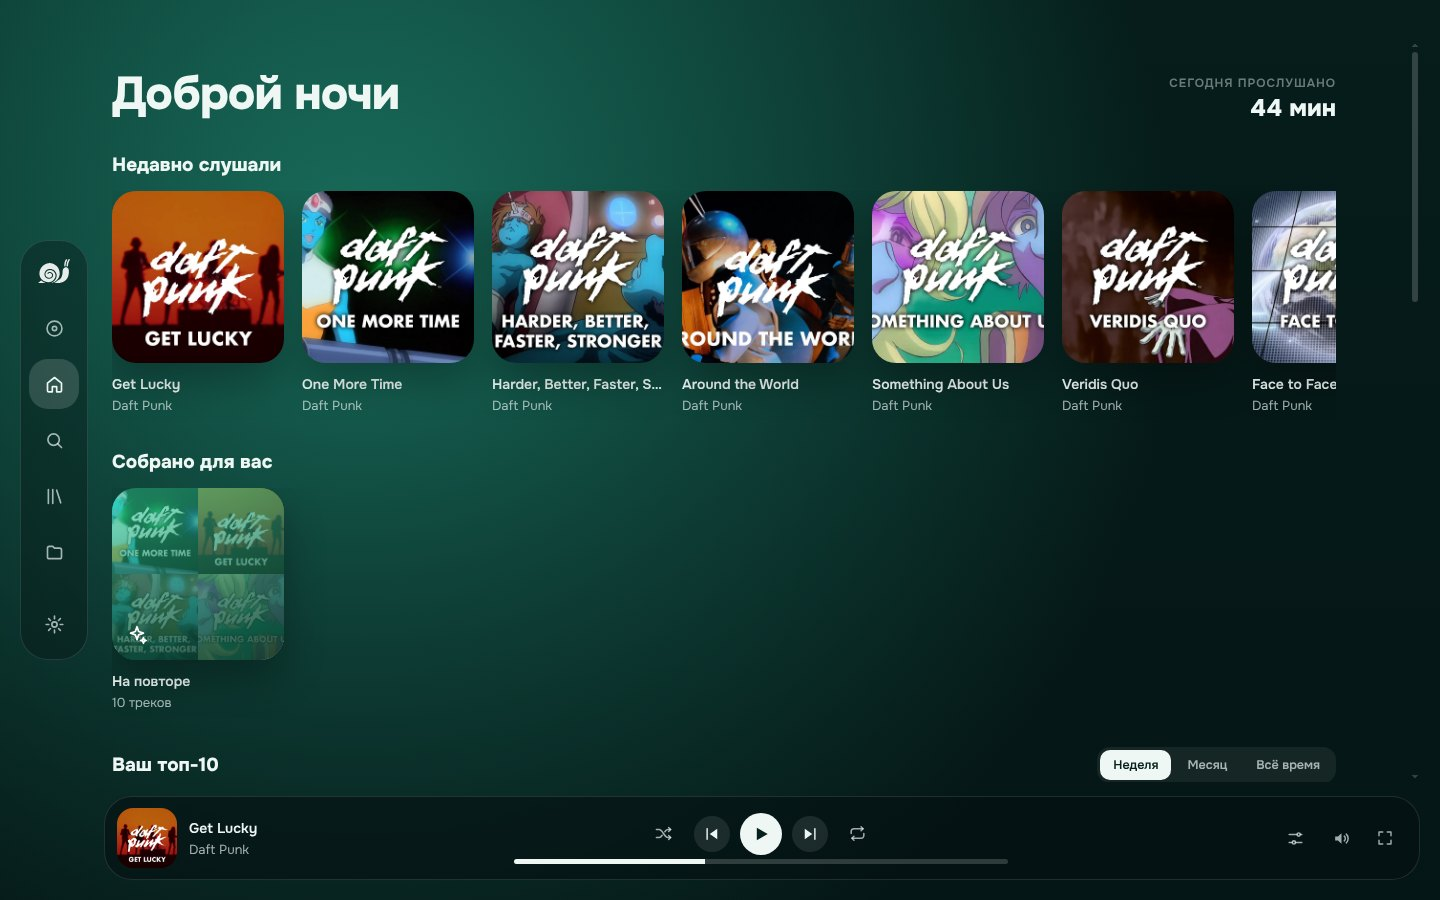
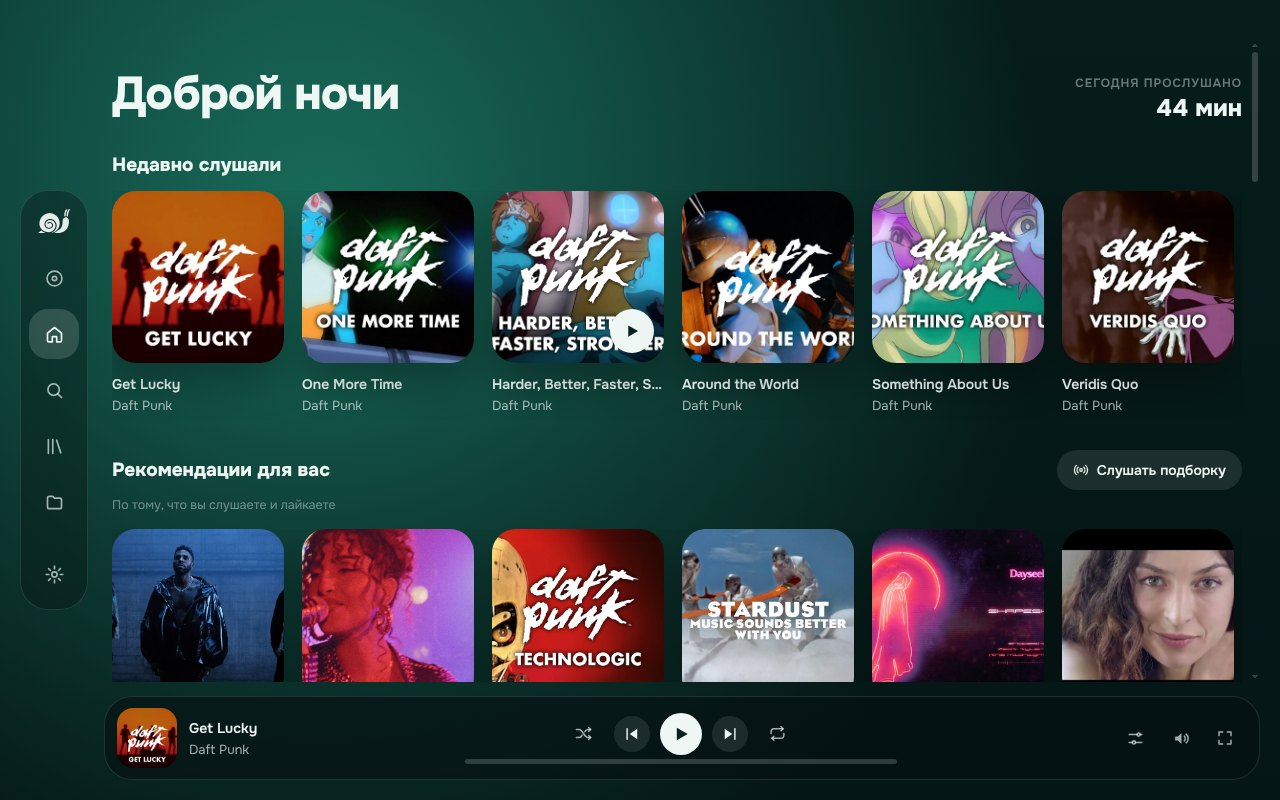
Recommendations and endless autoplay
- Similar songs come from YouTube Music's radio for the song (plus SoundCloud
  related for SoundCloud songs), same song from two uploads counted once
- "Next" on the last song continues with similar songs instead of starting the
  queue over; the queue is topped up while the last song plays
- Home: "Recommendations for you" mixed from your most played and liked songs,
  "Similar to …" rows

diff --git a/src/player/radio.ts b/src/player/radio.ts
@@ -1,19 +1,68 @@
 import type { Track } from "@/types";
 import { searchSoundCloud, soundCloudRelated } from "@/services/soundcloud/api";
-import { searchQueryFor, simplify } from "./match";
+import { searchYouTubeMusic, youTubeRadio } from "@/services/youtube/music";
+import { searchQueryFor, simplify, splitTitle } from "./match";
 
-// When the queue runs out (and autoplay is on), keep going with similar songs.
+// Similar songs: YouTube Music's own radio ("up next") for the song, plus SoundCloud's
+// related tracks for SoundCloud songs. Used for autoplay, "track radio" and the
+// recommendations on the home page.
 
-export async function similarTracks(seed: Track, exclude: Set<string>, signal?: AbortSignal): Promise<Track[]> {
-  let found: Track[] = [];
-  if (seed.source === "soundcloud") {
-    found = await soundCloudRelated(seed.id, signal);
-  } else {
-    // find the song on SoundCloud, then ask for what is related to it
-    const { tracks } = await searchSoundCloud(searchQueryFor(seed), signal);
-    const first = tracks[0];
-    found = first ? await soundCloudRelated(first.id, signal).catch(() => tracks) : [];
-    if (!found.length && seed.artists[0]) found = (await searchSoundCloud(simplify(seed.artists[0].name), signal)).tracks;
+function mix(a: Track[], b: Track[]): Track[] {
+  const out: Track[] = [];
+  for (let i = 0; i < Math.max(a.length, b.length); i++) {
+    if (a[i]) out.push(a[i]);
+    if (b[i]) out.push(b[i]);
   }
-  return found.filter((t) => !exclude.has(t.id)).slice(0, 20);
+  return out;
+}
+
+/** the same song uploaded twice counts once */
+export function songKey(t: Track): string {
+  const { title, artist } = splitTitle(t);
+  return `${simplify(artist)}|${simplify(title)}`;
+}
+
+export function uniqueSongs(list: Track[], exclude: Set<string> = new Set()): Track[] {
+  const seenKeys = new Set<string>();
+  return list.filter((t) => {
+    if (exclude.has(t.id)) return false;
+    const key = songKey(t);
+    if (seenKeys.has(key) || exclude.has(key)) return false;
+    seenKeys.add(key);
+    return true;
+  });
+}
+
+async function youTubeSeed(seed: Track, signal?: AbortSignal): Promise<string | null> {
+  if (seed.source === "youtube") return seed.id;
+  const found = await searchYouTubeMusic(searchQueryFor(seed), signal).catch(() => [] as Track[]);
+  return found[0]?.id ?? null;
+}
+
+const cache = new Map<string, { at: number; tracks: Track[] }>();
+const TTL = 30 * 60_000;
+
+export async function similarTracks(seed: Track, exclude: Set<string> = new Set(), signal?: AbortSignal, limit = 25): Promise<Track[]> {
+  let all = cache.get(seed.id)?.at && Date.now() - cache.get(seed.id)!.at < TTL ? cache.get(seed.id)!.tracks : null;
+  if (!all) {
+    const [yt, sc] = await Promise.all([
+      youTubeSeed(seed, signal).then((id) => (id ? youTubeRadio(id, signal) : [])).catch(() => [] as Track[]),
+      seed.source === "soundcloud"
+        ? soundCloudRelated(seed.id, signal).catch(() => [] as Track[])
+        : Promise.resolve([] as Track[]),
+    ]);
+    all = mix(yt, sc);
+    if (!all.length && seed.artists[0]) {
+      // last resort: more by the same artist
+      const name = simplify(seed.artists[0].name);
+      const [y, s] = await Promise.all([
+        searchYouTubeMusic(name, signal).catch(() => [] as Track[]),
+        searchSoundCloud(name, signal).then((r) => r.tracks).catch(() => [] as Track[]),
+      ]);
+      all = mix(y, s);
+    }
+    if (all.length) cache.set(seed.id, { at: Date.now(), tracks: all });
+  }
+  const skip = new Set([...exclude, seed.id, songKey(seed)]);
+  return uniqueSongs(all, skip).slice(0, limit);
 }

diff --git a/src/player/engine.ts b/src/player/engine.ts
@@ -6,7 +6,7 @@ import { createAudioGraph, type AudioGraph } from "@/audio/graph";
 import { setLevelingTrack } from "@/equalizer/eqAudio";
 import { effectsForNextTrack, useEffects, type EffectsState } from "./effects";
 import { YouTubeEmbed } from "./youtubeEmbed";
-import { similarTracks } from "./radio";
+import { similarTracks, songKey } from "./radio";
 import { useSettings } from "@/settings/store";
 import { HISTORY_AFTER_MS, useHistory } from "@/stats/history";
 import { recordListen } from "@/stats/listeningStats";
@@ -34,6 +34,7 @@ class PlayerEngine {
   private lastPos = -1;
   private counted = false;
   private radioBusy = false;
+  private playWhenExtended = false;
   /** a restored session starts at this position */
   private resumeAt = 0;
 
@@ -290,7 +291,8 @@ class PlayerEngine {
     const state = usePlayer.getState();
     const i = nextIndex(state, manual);
     if (i < 0) {
-      if (useSettings.getState().autoplay) void this.extendWithSimilar();
+      if (useSettings.getState().autoplay) void this.extendWithSimilar(true);
+      else if (manual && state.queue.length > 1) void this.playIndex(0);
       else usePlayer.setState({ status: "paused" });
       return;
     }
@@ -302,24 +304,37 @@ class PlayerEngine {
     void this.playIndex(i);
   }
 
-  private async extendWithSimilar(): Promise<void> {
+  /**
+   * Add similar songs after the queue. With `play`, jump to the first of them (the queue
+   * ran out); without, it is a quiet top-up while the last song is still playing, so
+   * "next" never has to wait.
+   */
+  private async extendWithSimilar(play: boolean): Promise<void> {
     const state = usePlayer.getState();
     const seed = currentTrack(state);
-    if (!seed || this.radioBusy) return;
+    if (!seed) return;
+    if (this.radioBusy) {
+      if (play) this.playWhenExtended = true;
+      return;
+    }
     this.radioBusy = true;
+    if (play) this.playWhenExtended = true;
     try {
-      const more = await similarTracks(seed, new Set(state.queue.map((t) => t.id)));
+      // songs heard recently are not offered again straight away
+      const recent = state.queue.slice(Math.max(0, state.index - 100));
+      const more = await similarTracks(seed, new Set([...recent.map((t) => t.id), ...recent.map(songKey)]));
+      const now = usePlayer.getState();
       if (!more.length) {
-        usePlayer.setState({ status: "paused" });
+        if (this.playWhenExtended) usePlayer.setState({ status: "paused", error: "Не нашлось похожих треков" });
         return;
       }
-      const queue = [...usePlayer.getState().queue, ...more];
-      usePlayer.setState({ queue });
-      await this.playIndex(state.index + 1);
+      usePlayer.setState({ queue: [...now.queue, ...more] });
+      if (this.playWhenExtended && now.index === state.index) await this.playIndex(state.index + 1);
     } catch {
-      usePlayer.setState({ status: "paused" });
+      if (this.playWhenExtended) usePlayer.setState({ status: "paused" });
     } finally {
       this.radioBusy = false;
+      this.playWhenExtended = false;
     }
   }
 
@@ -336,6 +351,8 @@ class PlayerEngine {
     if (!this.firstTrack) useEffects.setState(effectsForNextTrack(useEffects.getState()));
     setLevelingTrack(track.id);
     this.firstTrack = false;
+    const st = usePlayer.getState();
+    if (st.index >= st.queue.length - 2 && st.repeat === "off" && useSettings.getState().autoplay) void this.extendWithSimilar(false);
     try {
       const stream = await resolveStream(track, controller.signal);
       if (token !== this.loadToken) return;

diff --git a/src/pages/HomePage.tsx b/src/pages/HomePage.tsx
@@ -12,6 +12,9 @@ import { SMART_INFO } from "@/stats/smart";
 import { formatListenTime, playsWord } from "@/stats/format";
 import { useLibrary } from "@/library/store";
 import { newFromArtists } from "@/home/newFromArtists";
+import { recommendations, type Recommendations } from "@/home/recommendations";
+import { player } from "@/player/engine";
+import { IconRadio } from "@/ui/components/Icons";
 import { useNavigation } from "@/ui/navigation";
 
 function greeting(date = new Date()): string {
@@ -150,6 +153,55 @@ function Tops({ version }: { version: number }) {
   );
 }
 
+function ForYou() {
+  const likes = useLibrary((s) => s.likes);
+  const history = useHistory((s) => s.entries);
+  const [data, setData] = useState<Recommendations | null>(null);
+  const [state, setState] = useState<"loading" | "ready">("loading");
+  // recompute when the seeds could have changed, not on every play
+  const key = `${likes.length}|${history[0]?.track.id ?? ""}`;
+  useEffect(() => {
+    if (!likes.length && !history.length) {
+      setState("ready");
+      return;
+    }
+    const controller = new AbortController();
+    recommendations(likes, history, controller.signal)
+      .then((r) => {
+        if (controller.signal.aborted) return;
+        setData(r);
+        setState("ready");
+      })
+      .catch(() => setState("ready"));
+    return () => controller.abort();
+    // eslint-disable-next-line react-hooks/exhaustive-deps
+  }, [key]);
+  if (state === "ready" && !data?.forYou.length) return null;
+  return (
+    <>
+      <section className="row">
+        <div className="row-head">
+          <h2 className="row-title">Рекомендации для вас</h2>
+          {data?.forYou.length ? (
+            <button type="button" className="btn ghost" onClick={() => void player.playQueue(data.forYou)}>
+              <IconRadio size={16} /> Слушать подборку
+            </button>
+          ) : null}
+        </div>
+        <p className="muted small row-hint">По тому, что вы слушаете и лайкаете</p>
+        <div className="row-scroll">
+          {state === "loading"
+            ? Array.from({ length: 8 }, (_, i) => <span key={i} className="track-card skeleton" />)
+            : data!.forYou.map((t, i) => <TrackCard key={t.id} track={t} queue={data!.forYou} index={i} />)}
+        </div>
+      </section>
+      {data?.because.map((b) => (
+        <Row key={b.seed.id} title={`Похоже на «${b.seed.title}»`} tracks={b.tracks} state="ready" />
+      ))}
+    </>
+  );
+}
+
 function NewFromArtists() {
   const likes = useLibrary((s) => s.likes);
   const [tracks, setTracks] = useState<Track[]>([]);
@@ -183,6 +235,7 @@ export default function HomePage() {
         )}
       </header>
       <Recent />
+      <ForYou />
       <SmartRow version={version} />
       <Tops version={version} />
       <NewFromArtists />

diff --git a/src/home/recommendations.ts b/src/home/recommendations.ts
@@ -1,0 +1,54 @@
+import type { Track } from "@/types";
+import { similarTracks, songKey, uniqueSongs } from "@/player/radio";
+import { getTopTracks } from "@/stats/listeningStats";
+import type { LikedTrack } from "@/library/store";
+import type { HistoryEntry } from "@/stats/history";
+
+// Recommendations: radios of the songs you play most (and like most recently), mixed,
+// without what you already know.
+
+export interface Recommendations {
+  forYou: Track[];
+  because: Array<{ seed: Track; tracks: Track[] }>;
+}
+
+const TTL = 30 * 60_000;
+let cached: { key: string; at: number; value: Recommendations } | null = null;
+
+export function pickSeeds(likes: LikedTrack[], history: HistoryEntry[], limit = 4): Track[] {
+  const seeds: Track[] = [];
+  const add = (t: Track | undefined) => {
+    if (t && !seeds.some((s) => s.id === t.id || songKey(s) === songKey(t))) seeds.push(t);
+  };
+  for (const row of getTopTracks("month", 3)) add(row.track);
+  add(history[0]?.track);
+  for (const l of likes.slice(0, 3)) add(l.track);
+  return seeds.slice(0, limit);
+}
+
+export async function recommendations(likes: LikedTrack[], history: HistoryEntry[], signal?: AbortSignal): Promise<Recommendations> {
+  const seeds = pickSeeds(likes, history);
+  const key = seeds.map((s) => s.id).join(",");
+  if (cached && cached.key === key && Date.now() - cached.at < TTL) return cached.value;
+  const known = new Set<string>();
+  for (const l of likes) {
+    known.add(l.track.id);
+    known.add(songKey(l.track));
+  }
+  for (const h of history) {
+    known.add(h.track.id);
+    known.add(songKey(h.track));
+  }
+  const lists = await Promise.all(seeds.map((s) => similarTracks(s, known, signal, 30).catch(() => [] as Track[])));
+  const mixed: Track[] = [];
+  for (let i = 0; i < 30; i++) for (const list of lists) if (list[i]) mixed.push(list[i]);
+  const forYou = uniqueSongs(mixed).slice(0, 24);
+  const used = new Set(forYou.slice(0, 12).map((t) => t.id));
+  const because = seeds
+    .slice(0, 2)
+    .map((seed, i) => ({ seed, tracks: lists[i].filter((t) => !used.has(t.id)).slice(0, 14) }))
+    .filter((b) => b.tracks.length >= 4);
+  const value = { forYou, because };
+  if (forYou.length) cached = { key, at: Date.now(), value };
+  return value;
+}

diff --git a/src/services/youtube/music.ts b/src/services/youtube/music.ts
@@ -264,3 +264,43 @@ export function parseArtist(response: unknown): YouTubeArtist {
 export async function youTubeArtist(channelId: string, signal?: AbortSignal): Promise<YouTubeArtist> {
   return parseArtist(await call("browse", { browseId: channelId.replace(/^yta:/, "") }, signal));
 }
+
+/** one song in a YouTube Music "up next" list */
+export function parsePanelItem(item: Json): Track | null {
+  const videoId = item.videoId as string | undefined;
+  const title = (item.title as { runs?: Run[] } | undefined)?.runs?.map((r) => r.text).join("");
+  if (!videoId || !title) return null;
+  const byline = (item.longBylineText as { runs?: Run[] } | undefined)?.runs ?? [];
+  const artists = byline
+    .filter((r) => r.navigationEndpoint?.browseEndpoint?.browseEndpointContextSupportedConfigs?.browseEndpointContextMusicConfig?.pageType?.match(/ARTIST|USER_CHANNEL/))
+    .map((r) => ({ id: `yta:${r.navigationEndpoint!.browseEndpoint!.browseId}`, name: r.text }));
+  if (!artists.length && byline[0]?.text) artists.push({ id: `ytn:${byline[0].text}`, name: byline[0].text });
+  const views = byline.map((r) => r.text).find((t) => /\d/.test(t) && /(просм|views|прослуш|plays)/i.test(t));
+  const length = (item.lengthText as { runs?: Run[] } | undefined)?.runs?.[0]?.text ?? "";
+  return {
+    id: `yt:${videoId}`,
+    source: "youtube",
+    title,
+    artists,
+    durationMs: parseDuration(length),
+    artwork: bestThumb(item),
+    plays: views ? parseCount(views) : undefined,
+    permalink: `https://music.youtube.com/watch?v=${videoId}`,
+  };
+}
+
+export function parseUpNext(response: unknown): Track[] {
+  const out: Track[] = [];
+  for (const item of findAll(response, "playlistPanelVideoRenderer")) {
+    const t = parsePanelItem(item);
+    if (t && !out.some((x) => x.id === t.id)) out.push(t);
+  }
+  return out;
+}
+
+/** YouTube Music's own radio for a song: what plays after it on music.youtube.com */
+export async function youTubeRadio(videoId: string, signal?: AbortSignal): Promise<Track[]> {
+  const id = videoId.replace(/^yt:/, "");
+  const response = await call("next", { videoId: id, playlistId: `RDAMVM${id}`, isAudioOnly: true }, signal);
+  return parseUpNext(response).filter((t) => t.id !== `yt:${id}`);
+}

diff --git a/src/services/youtube/music.test.ts b/src/services/youtube/music.test.ts
@@ -45,3 +45,15 @@ describe("youtube collections", () => {
     expect(list[0].subtitle).toContain("Dowita 2610");
   });
 });
+
+import nextFixture from "./next.test.json";
+import { parseUpNext } from "./music";
+
+describe("youtube radio", () => {
+  it("reads the up next list", () => {
+    const list = parseUpNext(nextFixture);
+    expect(list.length).toBe(3);
+    expect(list[1]).toMatchObject({ id: "yt:pjSMPn8dEN0", title: "Snoh Aalegra - I Love You", durationMs: 207000, plays: 327000 });
+    expect(list[1].artists[0].name).toBe("Snoh Aalegra");
+  });
+});

diff --git a/src/player/store.test.ts b/src/player/store.test.ts
@@ -22,6 +22,8 @@ describe("queue navigation", () => {
     expect(nextIndex(base({ index: 2, repeat: "all" }), false)).toBe(0);
     expect(nextIndex(base({ index: 1, repeat: "one" }), false)).toBe(1);
     expect(nextIndex(base({ index: 1, repeat: "one" }), true)).toBe(2);
+    // "next" on the last song does not start the queue over: autoplay continues instead
+    expect(nextIndex(base({ index: 2 }), true)).toBe(-1);
     expect(prevIndex(base({ index: 0, repeat: "all" }))).toBe(2);
   });
   it("shuffles but keeps the chosen track first", () => {

diff --git a/src/player/store.ts b/src/player/store.ts
@@ -62,7 +62,9 @@ export function nextIndex(state: PlayerState, manual: boolean): number {
   if (queue.length === 0) return -1;
   if (repeat === "one" && !manual) return index;
   if (index + 1 < queue.length) return index + 1;
-  return repeat === "all" || manual ? 0 : -1;
+  // at the end: start over only with "repeat all"; otherwise the player decides
+  // (similar songs when autoplay is on)
+  return repeat === "all" ? 0 : -1;
 }
 
 export function prevIndex(state: PlayerState): number {
